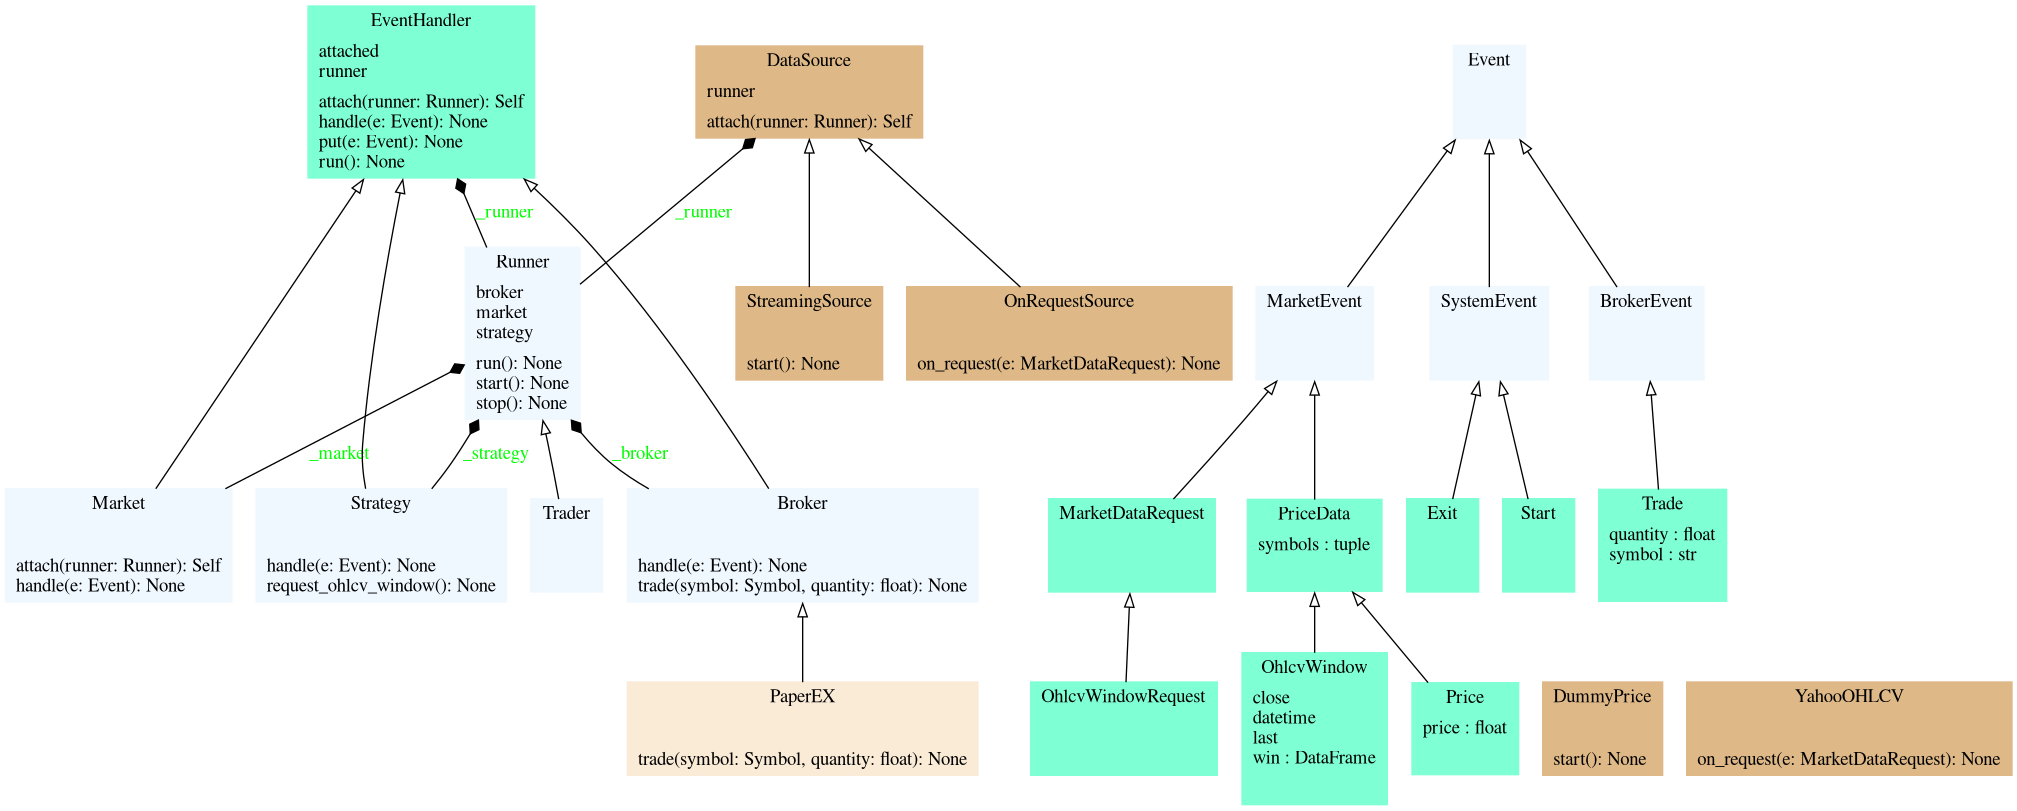
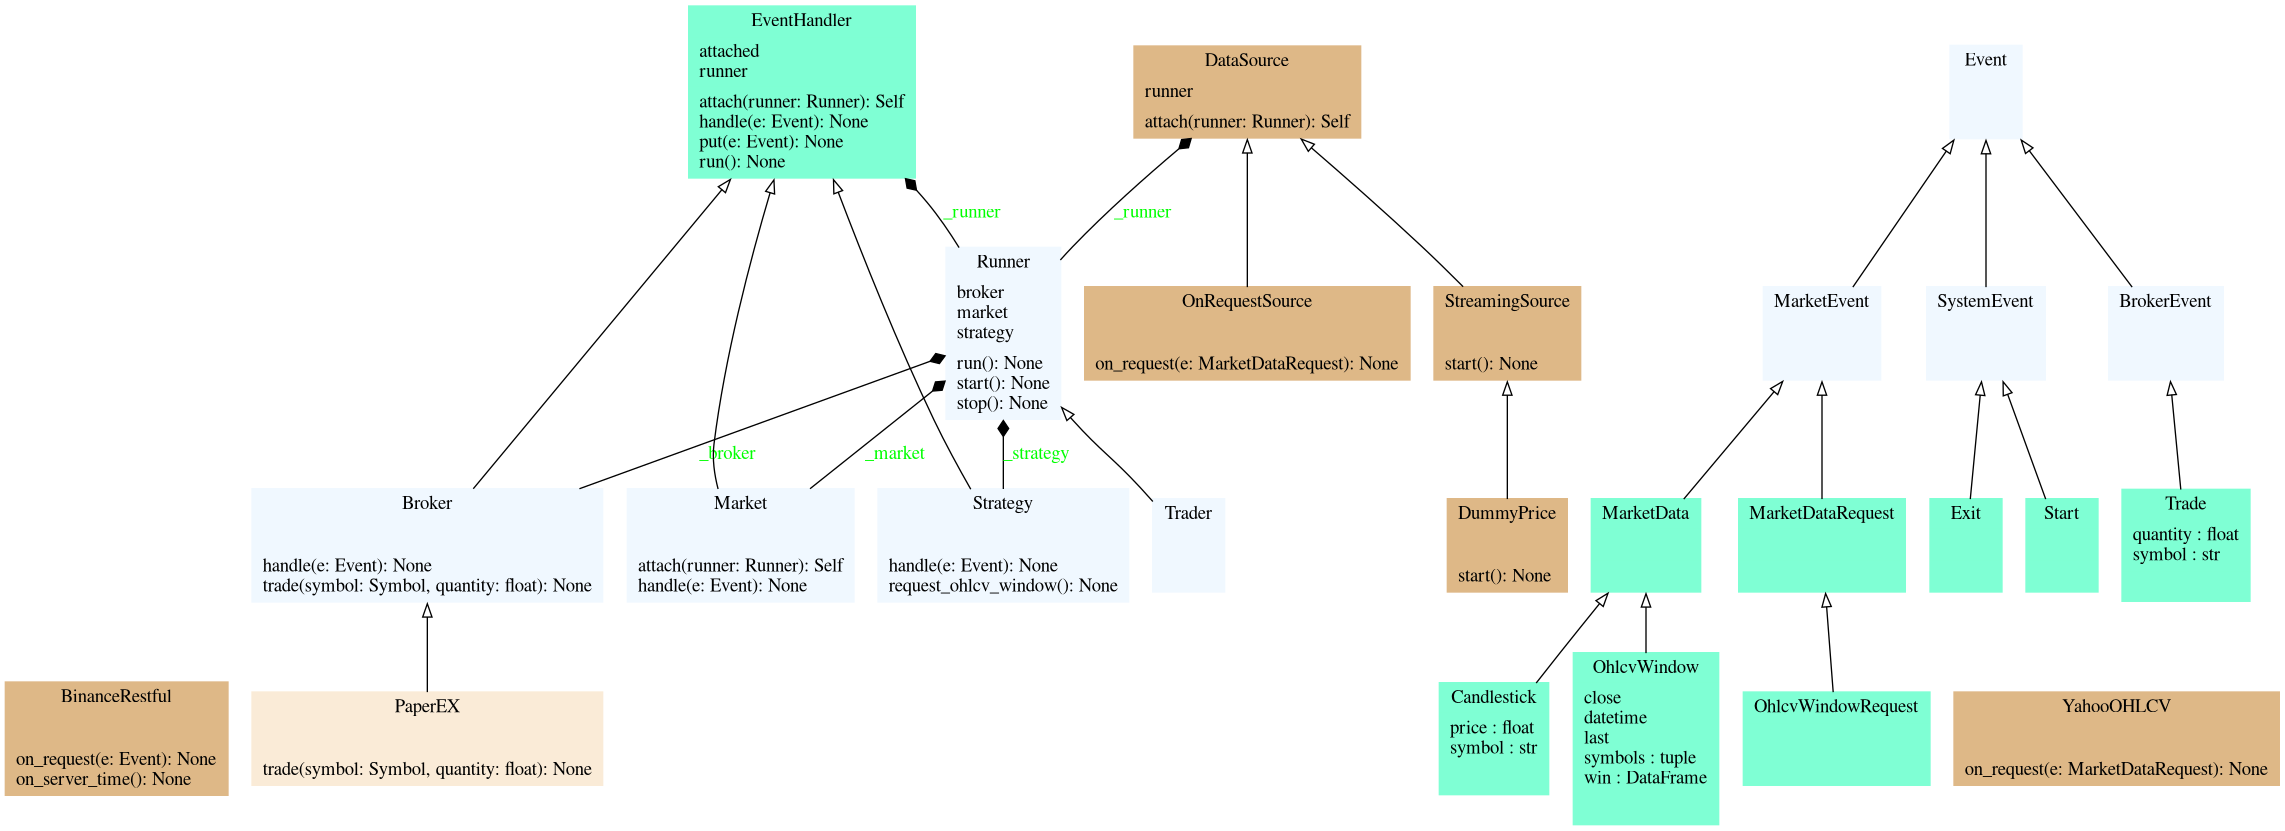
refactor: PriceData to MarketData

diff --git a/trbox/market/__init__.py b/trbox/market/__init__.py
@@ -28,7 +28,7 @@ class Market(EventHandler):
                 self._source.start()
                 logging.debug((f'`{self.__class__.__name__}` '
                                'started the `StreamingSource`.'))
-        # listen to PriceDataRequest from Strategyy
+        # listen to MarketDataRequest from Strategy
         if isinstance(e, MarketDataRequest):
             if isinstance(self._source, OnRequestSource):
                 self._source.on_request(e)

diff --git a/trbox/event/market.py b/trbox/event/market.py
@@ -24,12 +24,12 @@ class OhlcvWindowRequest(MarketDataRequest):
 #
 
 @dataclass
-class PriceData(MarketEvent):
+class MarketData(MarketEvent):
     pass
 
 
 @dataclass
-class OhlcvWindow(PriceData):
+class OhlcvWindow(MarketData):
     symbols: Symbols
     win: DataFrame
 
@@ -41,6 +41,6 @@ class OhlcvWindow(PriceData):
 
 
 @dataclass
-class Candlestick(PriceData):
+class Candlestick(MarketData):
     symbol: Symbol
     price: float
